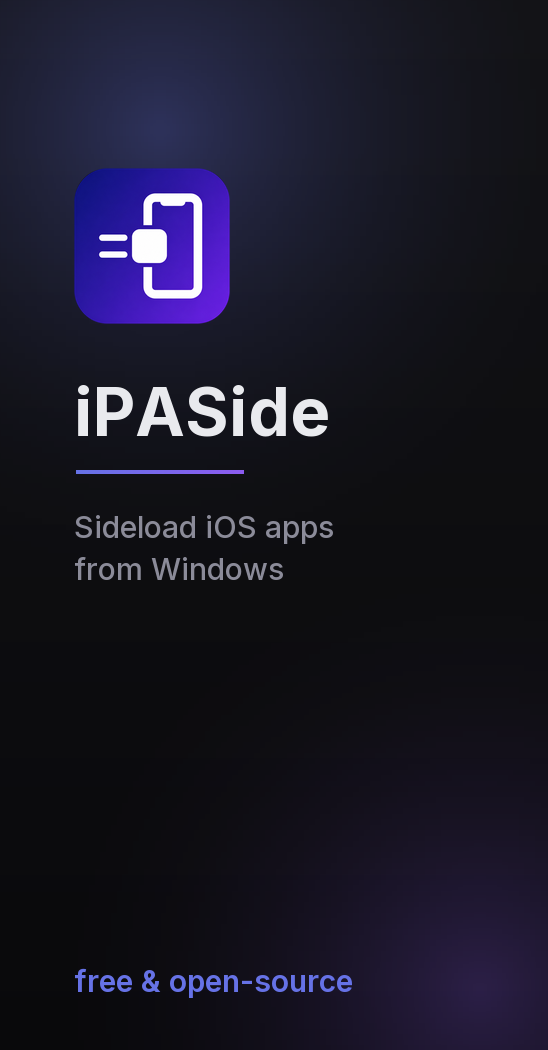
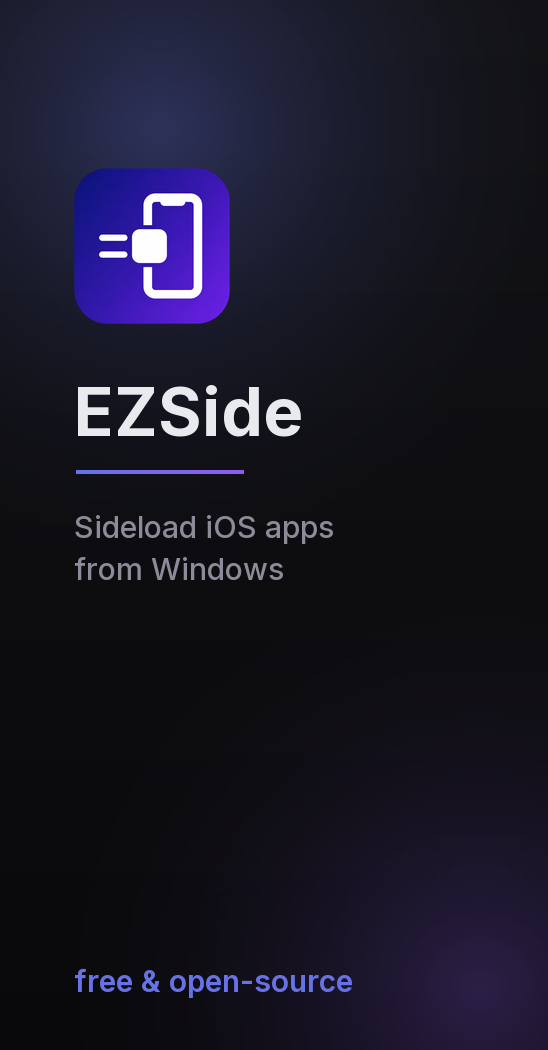
Check the release tag against the app version before publishing
A tag push now fails before building when the tag differs from the
pubspec and engine versions. The release job refuses to overwrite an
existing release, marks tags with "-" as pre-releases, and the
installer panel art shows EZSide.

Changed region(s): [[0.1241, 0.3657, 0.5894, 0.4267]]

diff --git a/packaging/brand/make-art.py b/packaging/brand/make-art.py
@@ -1,4 +1,4 @@
-r"""Generates iPASide's installer artwork from the app's own design tokens.
+r"""Generates EZSide's installer artwork from the app's own design tokens.
 
 The PNGs this writes are committed next to it, so building the installer never needs
 Python. The script exists so the art can be regenerated when the brand changes,
@@ -32,7 +32,9 @@ MUTED = (0x8B, 0x8B, 0x99)
 
 HERE = Path(__file__).resolve().parent
 REPO = HERE.parent.parent
-MARK = REPO / "src" / "iPASide.Flutter" / "assets" / "brand" / "mark.png"
+# The 512px master (cut from mark-source.png by packaging/make-icon.py). assets/brand/mark.png
+# is only the 26px in-app copy and goes soft when scaled up to the installer art.
+MARK = REPO / "docs" / "brand" / "icon.png"
 FONTS = REPO / "src" / "iPASide.Flutter" / "assets" / "fonts"
 
 
@@ -122,7 +124,7 @@ def build_panel() -> Image.Image:
     img.alpha_composite(mark, (74, 168))
 
     draw = ImageDraw.Draw(img)
-    draw.text((74, 372), "iPASide", font=font("Inter-Bold.ttf", 66), fill=TEXT)
+    draw.text((74, 372), "EZSide", font=font("Inter-Bold.ttf", 66), fill=TEXT)
     img.alpha_composite(accent_rule(168, 4), (76, 470))
     draw.text(
         (74, 508),

diff --git a/docs/releasing.md b/docs/releasing.md
@@ -9,16 +9,27 @@ updater (fail-closed on a checksum mismatch) unable to update at all.
 
 ## Steps
 
-**1. Bump the version in the three places that must match.**
+**1. Bump the version, then make the tag equal it.**
 
-- `src/iPASide.Flutter/pubspec.yaml` (`version: X.Y.Z+N`)
-- `src/iPASide.Flutter/lib/app_version.dart` (`kAppVersion`)
-- `packaging/build-installer.ps1` (default `-Version`)
+The tag (without the `v`) must equal the version in:
 
-`src/iPASide.Engine/ipaside_engine/__init__.py` (`__version__`) carries the same
-number. Date the `CHANGELOG.md` entry, and commit.
+- `src/iPASide.Flutter/pubspec.yaml` (`version: X.Y.Z+N`, the part before `+`)
+- `src/iPASide.Engine/ipaside_engine/__init__.py` (`__version__`)
 
-**2. Tag and push the tag.**
+CI fails the run before building anything when either differs from the tag. Keep
+`src/iPASide.Flutter/lib/app_version.dart` (`kAppVersion`) equal to the pubspec
+version too (a test checks that). The default `-Version` in
+`packaging/build-installer.ps1` is only for local builds; CI ignores it. Date the
+`CHANGELOG.md` entry, and commit.
+
+A tag containing `-` (for example `v1.1.0-beta1`) is published as a pre-release.
+
+**2. Test the branch build, then tag.**
+
+The release goes straight to every installed EZSide: the in-app updater sees it as
+soon as the release job finishes. So before tagging, download the `EZSide-installer`
+artifact from the branch's CI run and install it on a device. Then tag and push the
+tag.
 
 ```powershell
 git tag -a vX.Y.Z -m "EZSide X.Y.Z"
@@ -26,8 +37,9 @@ git push origin vX.Y.Z
 ```
 
 **3. CI publishes.** The workflow runs the engine and app tests, builds the
-installer on a clean machine, then the `release` job creates (or updates) the
-release for the tag with `EZSide-Setup-X.Y.Z-x64.exe` and `SHA256SUMS.txt`.
+installer on a clean machine, then the `release` job creates the
+release for the tag with `EZSide-Setup-X.Y.Z-x64.exe` and `SHA256SUMS.txt`. It
+refuses to overwrite: if the release already has assets, the run fails.
 Watch the run under the repository's Actions tab.
 
 ## After the release
@@ -41,9 +53,9 @@ gh release download vX.Y.Z --repo brooklyn96/EZSide
 Get-Content SHA256SUMS.txt
 ```
 
-A CI-built installer has never been driven against a real iPhone by CI itself, so
-install it on a device before telling anyone about the release. The data folder
-`%LOCALAPPDATA%\EZSide` must survive an uninstall.
+CI has never driven an installer against a real iPhone, which is why the device
+test happens before the tag (step 2): once published, users get it immediately. The
+data folder `%LOCALAPPDATA%\EZSide` must survive an uninstall.
 
 ## Re-cutting a release
 
